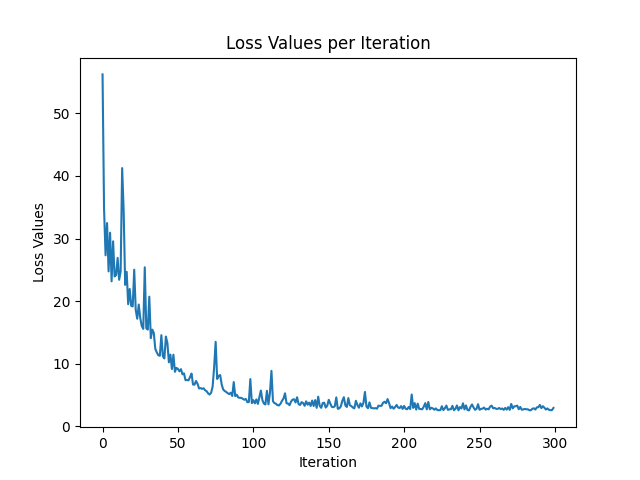
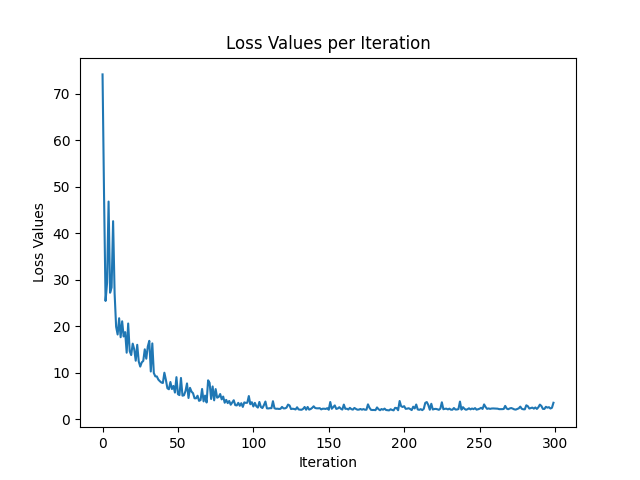
finished problem 2

diff --git a/problem2/Problem2.py b/problem2/Problem2.py
@@ -30,7 +30,7 @@ def sum_of_absolute_errors(
 def coordinate_descent_part_1(
     y : np.ndarray,
     X : np.ndarray,
-    _lambda : np.ndarray,
+    _lambda : float,
     max_iterations : int = 100
 ) -> tuple[np.ndarray, np.ndarray]:
     '''
@@ -62,7 +62,53 @@ def coordinate_descent_part_1(
     loss_values = np.array(loss_values)
     return (w, loss_values)
 
+def coordinate_descent_part_2(
+    y : np.ndarray,
+    X : np.ndarray,
+    _lambda1 : float,
+    _lambda2 : float,
+    max_iterations : int = 100
+) -> tuple[np.ndarray, np.ndarray]:
+    '''
+    '''
+    loss_values = []
+
+    n = X.shape[1]
+    w = np.zeros((n,))
+
+    for k in range(max_iterations):
+        indices = np.random.choice(
+            np.arange(0, 2000),
+            size = 13,
+            replace = False
+        )
+        X_k = X[indices, :].copy()
+        y_k = y[indices].copy()
+
+        for i in range(n):
+            j = np.delete(np.arange(n), i)
+
+            numerator_a = (X_k[:, i].T @ (y_k - X_k[:, j] @ w[j]))
+
+            denominator = X_k[:, i].T @ X_k[:, i] + _lambda2
+            a = numerator_a / denominator
+            _gamma = _lambda1 / denominator
+
+            if a > _gamma:
+                w[i] = a - _gamma
+            elif np.abs(a) < np.abs(_gamma):
+                w[i] = 0
+            else:
+                w[i] = a + _gamma
+
+        loss_values.append(loss_function(y, X, w))
+
+    loss_values = np.array(loss_values)
+    return (w, loss_values)
+
 if __name__ == '__main__':
+    np.random.seed(1234)
+
     current_path = os.path.abspath(__file__)
     file_directory = os.path.abspath(os.path.join(current_path, '..', '..', 'data', 'Question2.csv'))
     csv_file_data = pd.read_csv(file_directory).to_numpy()
@@ -92,5 +138,76 @@ if __name__ == '__main__':
     plt.cla()
     # =================
 
+    # =================
+    # Plotting: Plot 2
+    # =================
+    indices = np.arange(w.shape[0])
+
+    plt.stem(indices, w, linefmt = 'blue', markerfmt = 'bo', use_line_collection = True)
+
+    plt.xlabel('Index')
+    plt.ylabel('W-Values')
+    plt.title('W-Values per Index')
+    
+    output_filepath = os.path.abspath(os.path.join(current_path, '..', '..', 'output', 'Problem2', 'part_1_w_values_per_index.png'))
+    plt.savefig(output_filepath)
+
+    plt.clf()
+    plt.cla()
+    # =================
+
     _sae = sum_of_absolute_errors(y[2000:], X[2000:, :], w)
-    print(_sae)
+    print(fr'''
+
+The sum of absolute values errors for Method 1 is:
+{round(_sae, 2)}
+
+    ''')
+
+    _lambda1 = 0.05
+    _lambda2 = 0.01
+    w, loss_values = coordinate_descent_part_2(y[:2000], X[:2000, :], _lambda1, _lambda2, max_iteration)
+
+    # =================
+    # Plotting: Plot 3
+    # =================
+    iterations = np.arange(loss_values.shape[0])
+
+    ax = sns.lineplot(x = iterations, y = loss_values)
+
+    plt.xlabel('Iteration')
+    plt.ylabel('Loss Values')
+    plt.title('Loss Values per Iteration')
+    
+    output_filepath = os.path.abspath(os.path.join(current_path, '..', '..', 'output', 'Problem2', 'part_2_loss_values_per_iteration.png'))
+    plt.savefig(output_filepath)
+
+    plt.clf()
+    plt.cla()
+    # =================
+
+    # =================
+    # Plotting: Plot 4
+    # =================
+    indices = np.arange(w.shape[0])
+
+    plt.stem(indices, w, linefmt = 'blue', markerfmt = 'bo', use_line_collection = True)
+
+    plt.xlabel('Index')
+    plt.ylabel('W-Values')
+    plt.title('W-Values per Index')
+    
+    output_filepath = os.path.abspath(os.path.join(current_path, '..', '..', 'output', 'Problem2', 'part_2_w_values_per_index.png'))
+    plt.savefig(output_filepath)
+
+    plt.clf()
+    plt.cla()
+    # =================
+
+    _sae = sum_of_absolute_errors(y[2000:], X[2000:, :], w)
+    print(fr'''
+
+The sum of absolute values errors for Method 2 is:
+{round(_sae, 2)}
+
+    ''')
